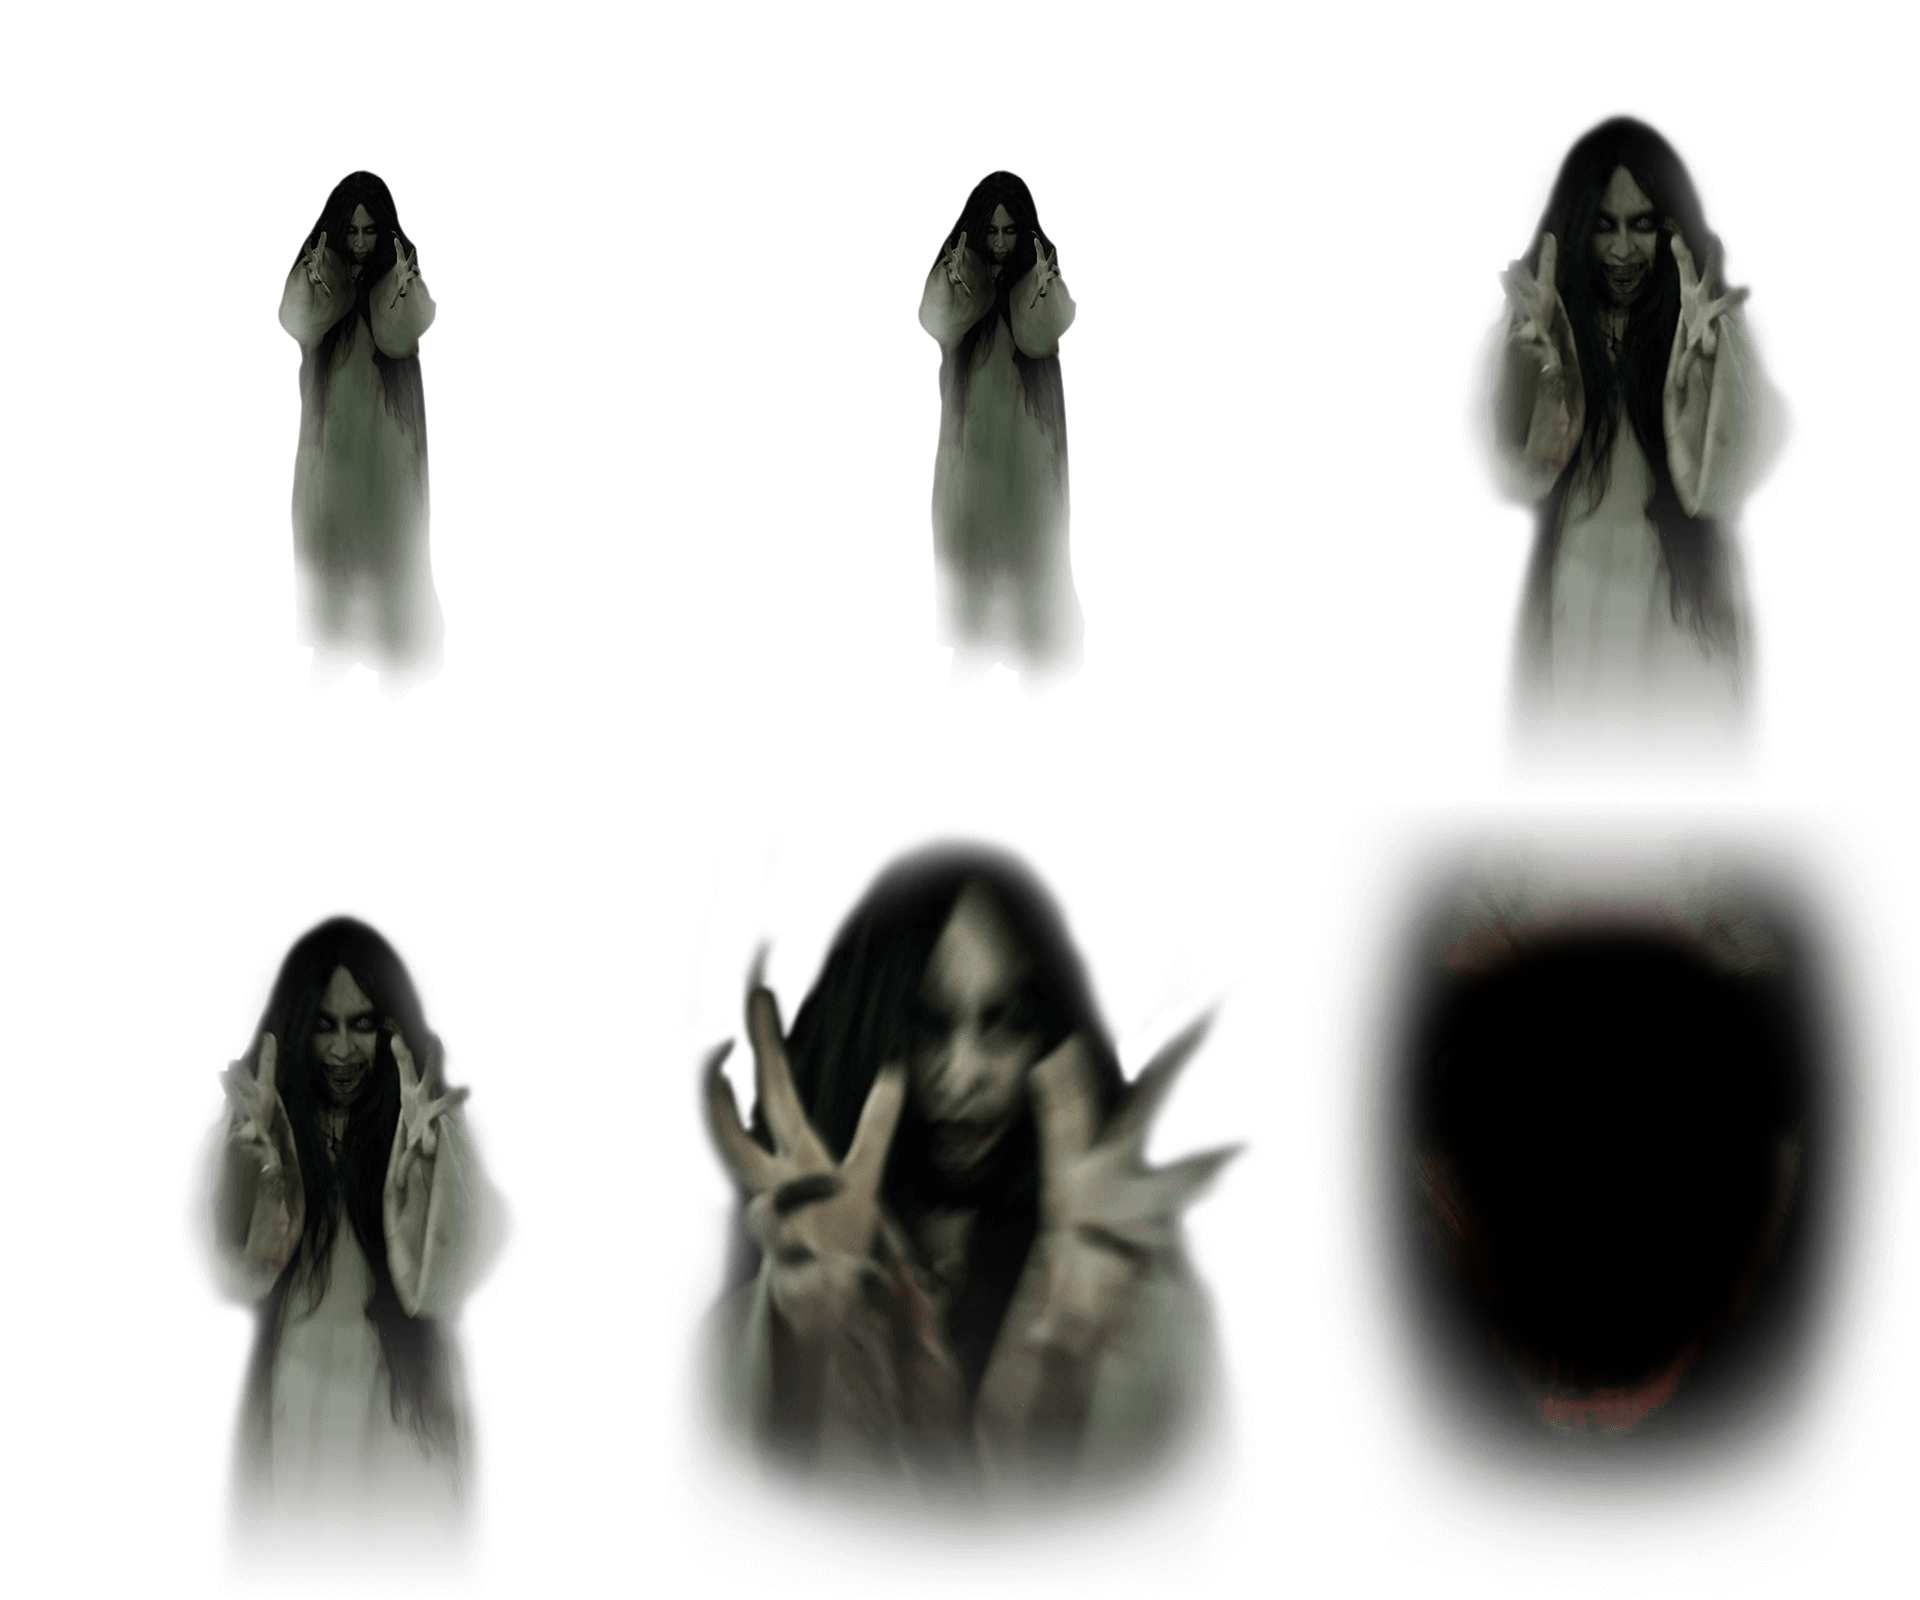
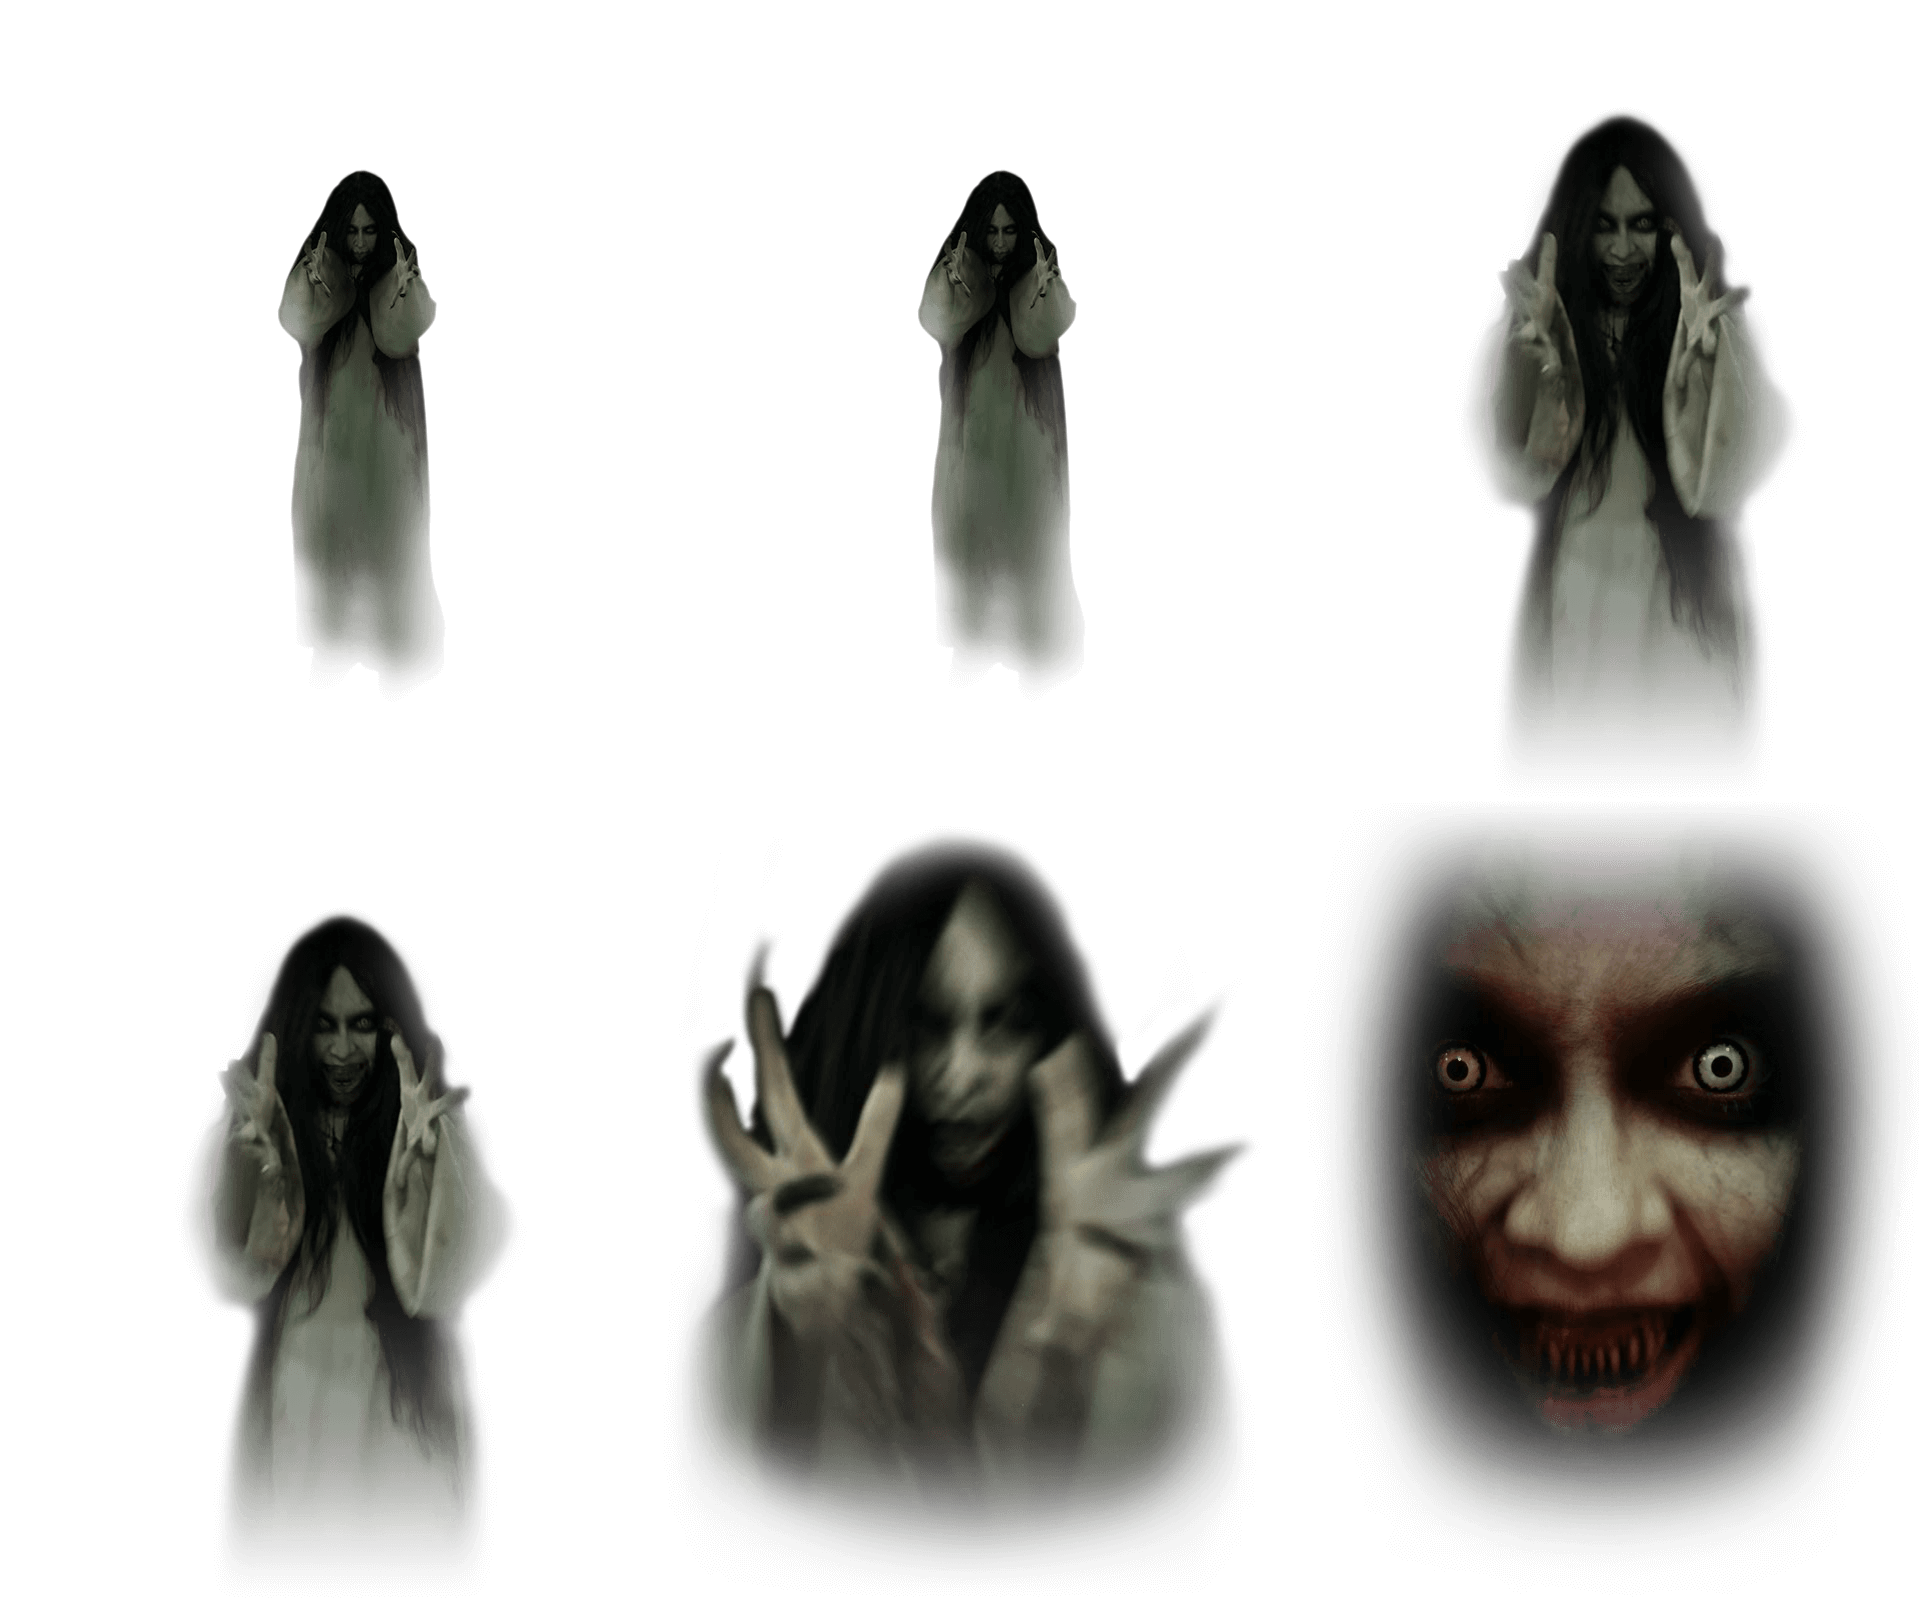
done - guess name animations

Changed region(s): [[0.75, 0.5625, 0.9375, 0.875]]

diff --git a/index.js b/index.js
@@ -134,31 +134,31 @@
         }
 
         //  JAC: hide jump scare for time being...
-        // if (scene.data.id == '0-scene-2' && !shownScare) {
-        //   timeoutID = window.setTimeout(function(){
-        //     $('#scare').show();
-        //     $('.scare-overlay').addClass('active');
-        //
-        //     var element = document.querySelector('#scare');
-        //     var sprite = new Motio(element, {
-        //         fps: 18,
-        //         frames: 10
-        //     });
-        //     sprite.to(9);
-        //
-        //     shownScare = true;
-        //
-        //     sprite.on('frame', function(eventName){
-        //       if ( this.frame == 9 ) {
-        //         $('#scare').hide();
-        //         $('.scare-overlay').removeClass('active');
-        //       }
-        //     });
-        //
-        //   }, 6000);
-        // } else {
-        //   window.clearTimeout(timeoutID);
-        // }
+        if (scene.data.id == '0-scene-2' && !shownScare) {
+          timeoutID = window.setTimeout(function(){
+            $('#scare').show();
+            $('.scare-overlay').addClass('active');
+
+            var element = document.querySelector('#scare');
+            var sprite = new Motio(element, {
+                fps: 18,
+                frames: 10
+            });
+            sprite.to(9);
+
+            shownScare = true;
+
+            sprite.on('frame', function(eventName){
+              if ( this.frame == 9 ) {
+                $('#scare').hide();
+                $('.scare-overlay').removeClass('active');
+              }
+            });
+
+          }, 6000);
+        } else {
+          window.clearTimeout(timeoutID);
+        }
 
     }
 

diff --git a/styles/main.css b/styles/main.css
@@ -617,7 +617,7 @@ a:hover {
 @media (max-width: 480px) {
 
   .pontianakBox > div {
-    width: 100%;
+    width: 600px;
     height: 648px;
   }
   /*
@@ -630,7 +630,14 @@ a:hover {
     .pontianak7 { background: transparent url( ../img/07_ponturn_3-m.png ) 0 0 no-repeat; }
     .pontianak8 { background: transparent url( ../img/08_ponwait_3-m.png ) 0 0 no-repeat; }
     */
-    .pontianak9, .pontianakSpecial { background: transparent url( ../img/09_pondash-m.png ) 0 0 no-repeat; }
+    .pontianak9, .pontianakSpecial {
+      background: transparent url( ../img/09_pondash-m.png ) 0 0 no-repeat;
+      width: 600px;
+    }
+
+    /*.pontianakSpecial {
+      margin-left: -270px;
+    }*/
 }
 /*
 .pontianak9 {

diff --git a/game.js b/game.js
@@ -424,6 +424,7 @@ function animatePontianakError(triesLeft, haveWaiting) {
 
       var query = Modernizr.mq('(max-width: 767px)');
       if (query) {
+
        // the browser window is larger than 900px
        var element = document.querySelector('.pontianak' + pontianakIdx);
       //  var sprite = new Motio(element, {
